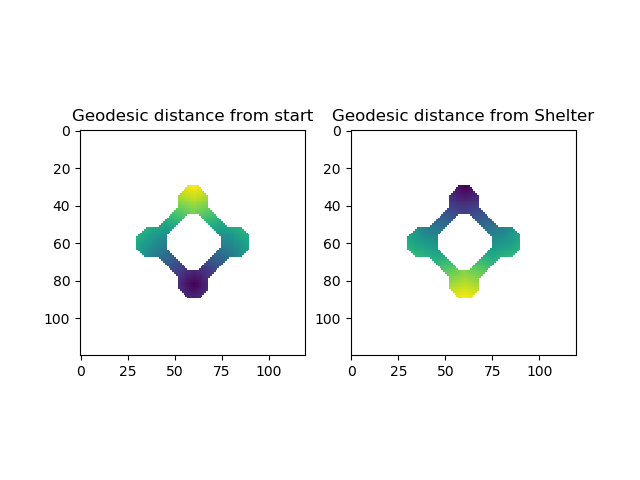
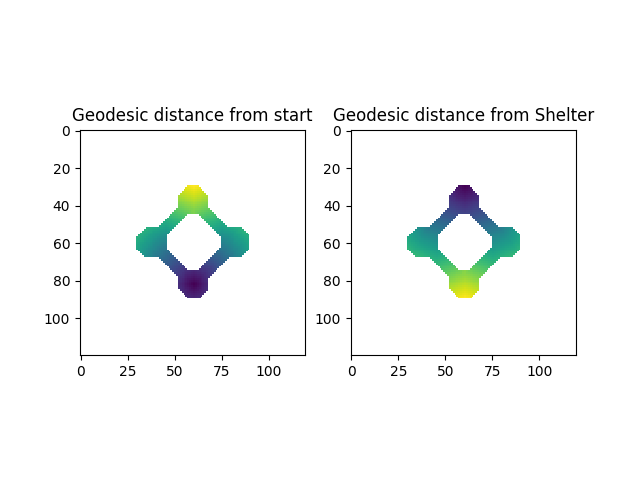
shitty

Changed region(s): [[0.0938, 0.2188, 0.9375, 0.25]]

diff --git a/Processing/modelling/maze_path_rl/path_agent.py b/Processing/modelling/maze_path_rl/path_agent.py
@@ -383,7 +383,8 @@ class Model:
 		
 		# geo_distances = np.rot90(geo_distances[::-1, :], 3)
 		geo_distances = None
-		number_of_walks = 2
+		number_of_walks = 20
+		all_walked = []
 		for walk_n in np.arange(number_of_walks):
 			walk = []
 			curr = self.env.start.copy()
@@ -391,10 +392,12 @@ class Model:
 
 			# turn the goedesic distances into a matrix
 			x, y, z = [], [], []
-			if geo_distances is None:
-				geo_distances = np.full((self.env.grid_size, self.env.grid_size), np.inf)
-				for point, value in zip(self.env.free_states, self.env.geodesic_distance_states):
-					geo_distances[tuple(point)] = value
+			
+			self.env.get_geodesic_representation(remove_free_states=all_walked)
+			# if geo_distances is None:
+			geo_distances = np.full((self.env.grid_size, self.env.grid_size), np.inf)
+			for point, value in zip(self.env.free_states, self.env.geodesic_distance_states):
+				geo_distances[tuple(point)] = value
 			
 
 			# normalise geodistances
@@ -428,17 +431,21 @@ class Model:
 				ax.scatter(curr[0], curr[1], geo_distances[tuple(curr)] + 1, c='r', s=100, alpha=.75)
 				walk.append(curr)
 
-				if abs(calc_distance_between_points_2d(curr, self.env.goal)) < 2: break
+				if abs(calc_distance_between_points_2d(curr, self.env.goal)) < 2: 
+					break
 
+			all_walked.extend([w for w in walk if w != self.env.start and w!= self.env.goal])
+		
 			# modify the geodesic landscape for the next walk
 			old_geodesic = geo_distances.copy()
-			kernel = 9
+			kernel = 3
 			for i, step in enumerate(walk):
 				if i < kernel: continue
 				if i > len(walk)/3: continue
+				# geo_distances[step[0], step[1]] = np.inf
 				x, y = step[0], step[1]
-				surroundings = geo_distances[x-kernel:x+kernel+1, y-kernel:y+kernel+1]
-				geo_distances[x-kernel:x+kernel+1, y-kernel:y+kernel+1] = surroundings + 10
+				# surroundings = geo_distances[x-kernel:x+kernel+1, y-kernel:y+kernel+1]
+				geo_distances[x-kernel:x+kernel+1, y-kernel:y+kernel+1] = np.inf
 
 			# convolve gaussian over geoesic distance representation
 			kernel = np.ones((5,5),np.float32)/25

diff --git a/Processing/modelling/maze_path_rl/path_maze.py b/Processing/modelling/maze_path_rl/path_maze.py
@@ -197,13 +197,20 @@ class Maze(object):
 
 
 
-	def get_geodesic_representation(self):
+	def get_geodesic_representation(self, remove_free_states = None):
 		from sklearn import manifold
 
+		# get a reduced list of freestates
+		if remove_free_states is not None:
+	
+			free = [fs for fs in self.free_states if fs not in remove_free_states]
+		else:
+			free = self.free_states
+
 		# X is a 2d array with shape: number-of-points by 2 [XY coordinates for each pixel on the maze]
-		X = np.vstack(self.free_states)  # self.freestates is a list of points which are the pixels on the maze
-		start_idx = self.free_states.index(self.start)
-		goal_idx = self.free_states.index(self.goal)
+		X = np.vstack(free)  # self.freestates is a list of points which are the pixels on the maze
+		start_idx = free.index(self.start)
+		goal_idx = free.index(self.goal)
 
 		iso = manifold.Isomap(n_neighbors=6, n_components=2)  # fit the isomap
 		iso.fit(X)
@@ -216,7 +223,7 @@ class Maze(object):
 		f, axarr = plt.subplots(ncols=2)
 		for ax, target, title in zip(axarr, idxs, titles):
 			m = np.full(self.maze_image.shape, np.nan)
-			for n, coord in enumerate(self.free_states):
+			for n, coord in enumerate(free):
 				d = iso.dist_matrix_[n, target]
 				m[coord[1], coord[0]] = d
 
